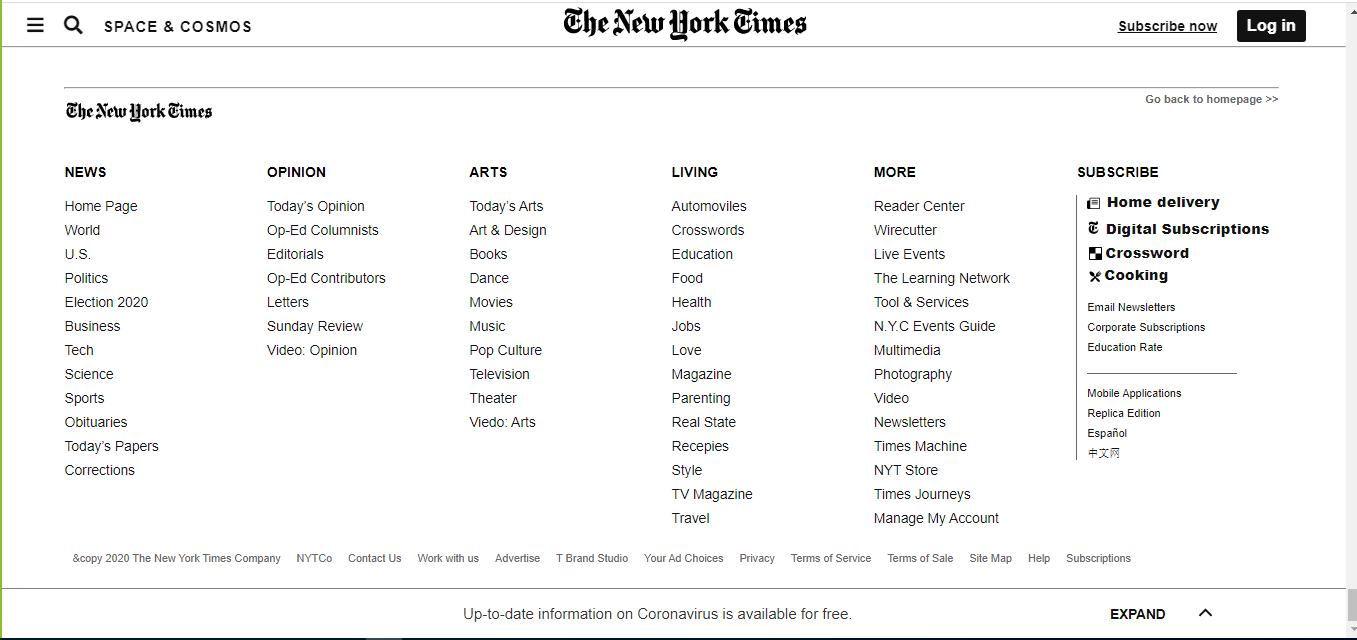
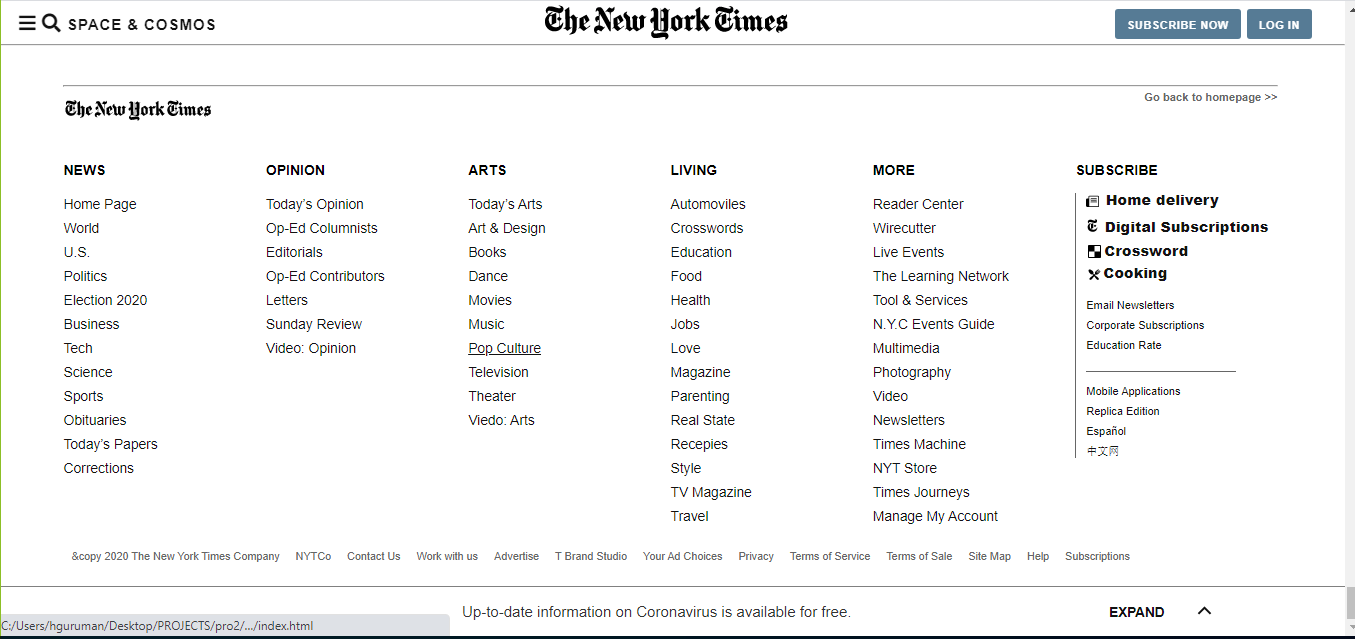
Fix the css corrections after code review

diff --git a/css/style.css b/css/style.css
@@ -146,7 +146,7 @@ img {
 }
 
 .icon {
-  margin: 10px;
+  margin: 3px;
   display: flex;
   align-items: center;
 }
@@ -184,17 +184,21 @@ img {
 }
 
 .button {
-  text-align: center;
-  background-color: rgb(18, 18, 18);
-  color: #fff;
-  font-size: 1em;
-  height: 32px;
-  letter-spacing: 0.01em;
-  text-transform: none;
-  border-color: 1px solid #000;
-  border-radius: 3px;
-  margin-right: 1px 0 0;
-  padding: 5px 10px 5px 10px;
+  cursor: pointer;
+    font-family: helvetica, arial, sans-serif;
+    white-space: nowrap;
+    vertical-align: middle;
+    background-color: rgb(86, 123, 149);
+    color: rgb(255, 255, 255);
+    font-size: 11px;
+    line-height: 11px;
+    font-weight: 700;
+    letter-spacing: 0.05em;
+    text-transform: uppercase;
+    border-radius: 3px;
+    transition: all 0.6s ease 0s;
+    border-image: initial;
+    padding: 11px 12px 8px;
 }
 
 .fas:hover {
@@ -328,7 +332,6 @@ span {
 
 p {
   display: block;
-  margin-inline-end: 0;
 }
 
 .social > p,

diff --git a/index.html b/index.html
@@ -29,7 +29,7 @@
                     <a href="#"> <img class="nylogo" src="images/NYTlogo.svg" alt="y" /> </a>
                 </div>
                 <div class="right-container">
-                    <div class="icon subscribe"><a href="/">Subscribe now</a></div>
+                    <div class="icon"><a class="button" href="/">Subscribe now</a></div>
                     <a href="#" class="icon button">Log in</a>
                 </div>
             </nav>
